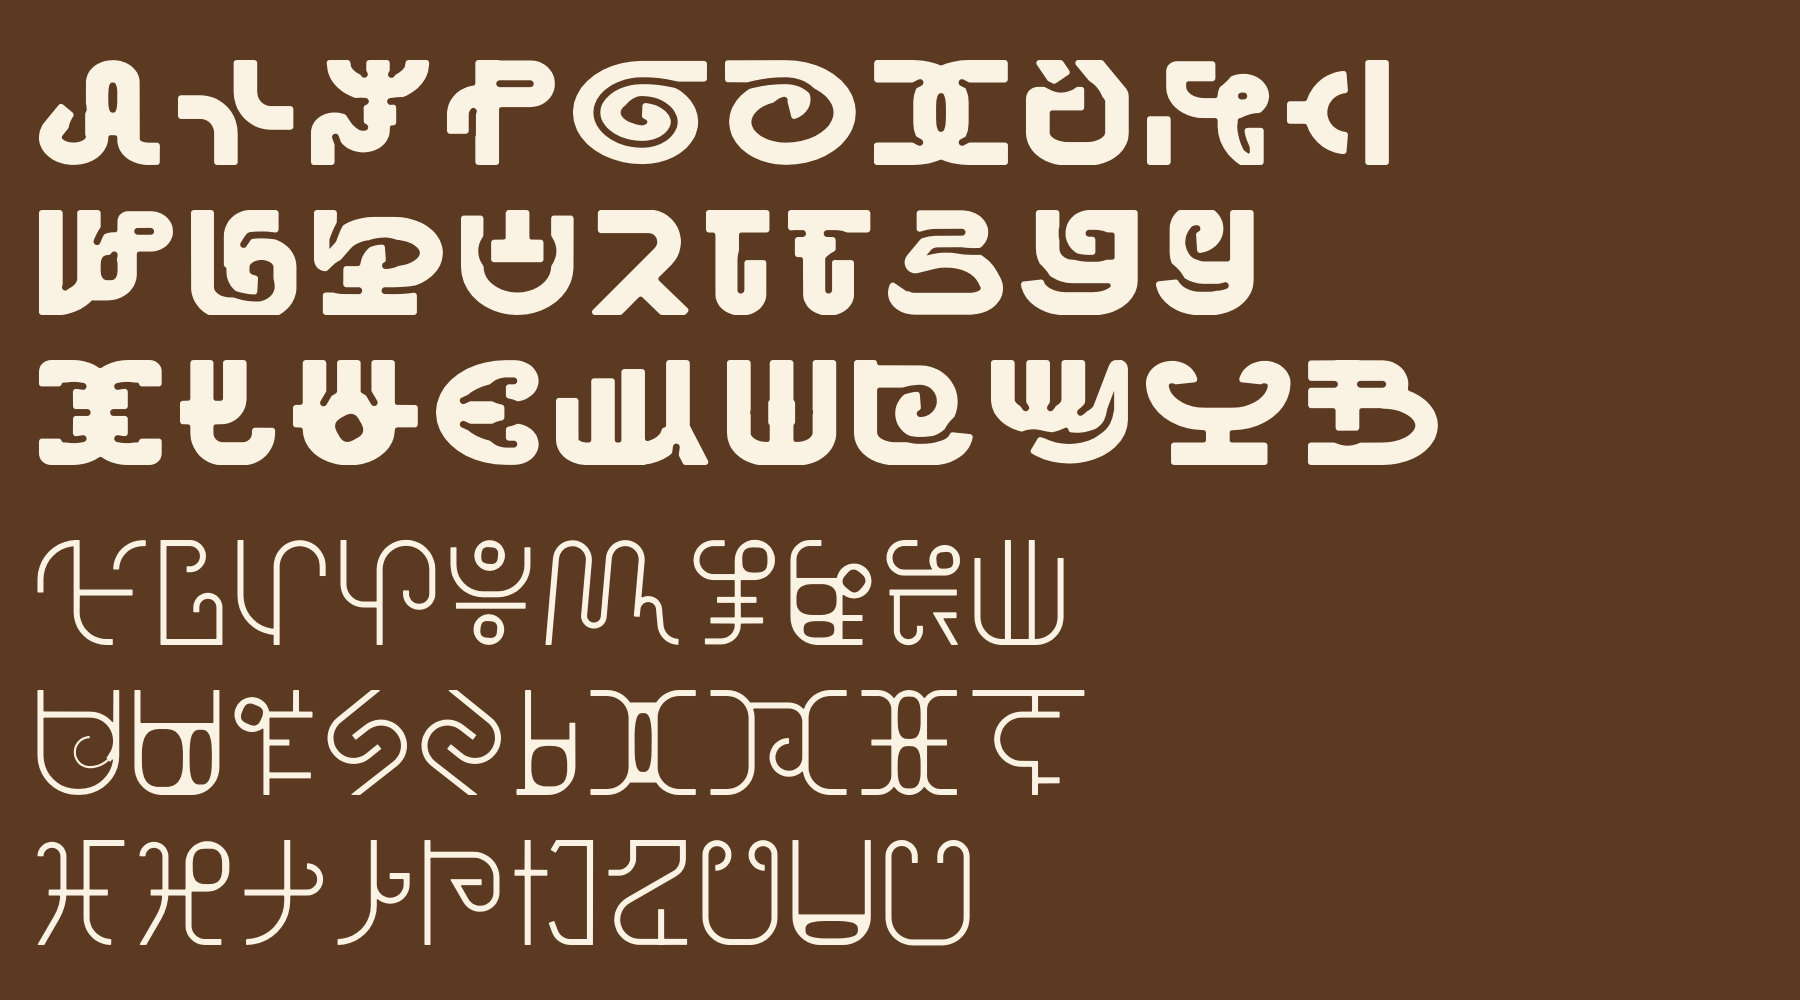
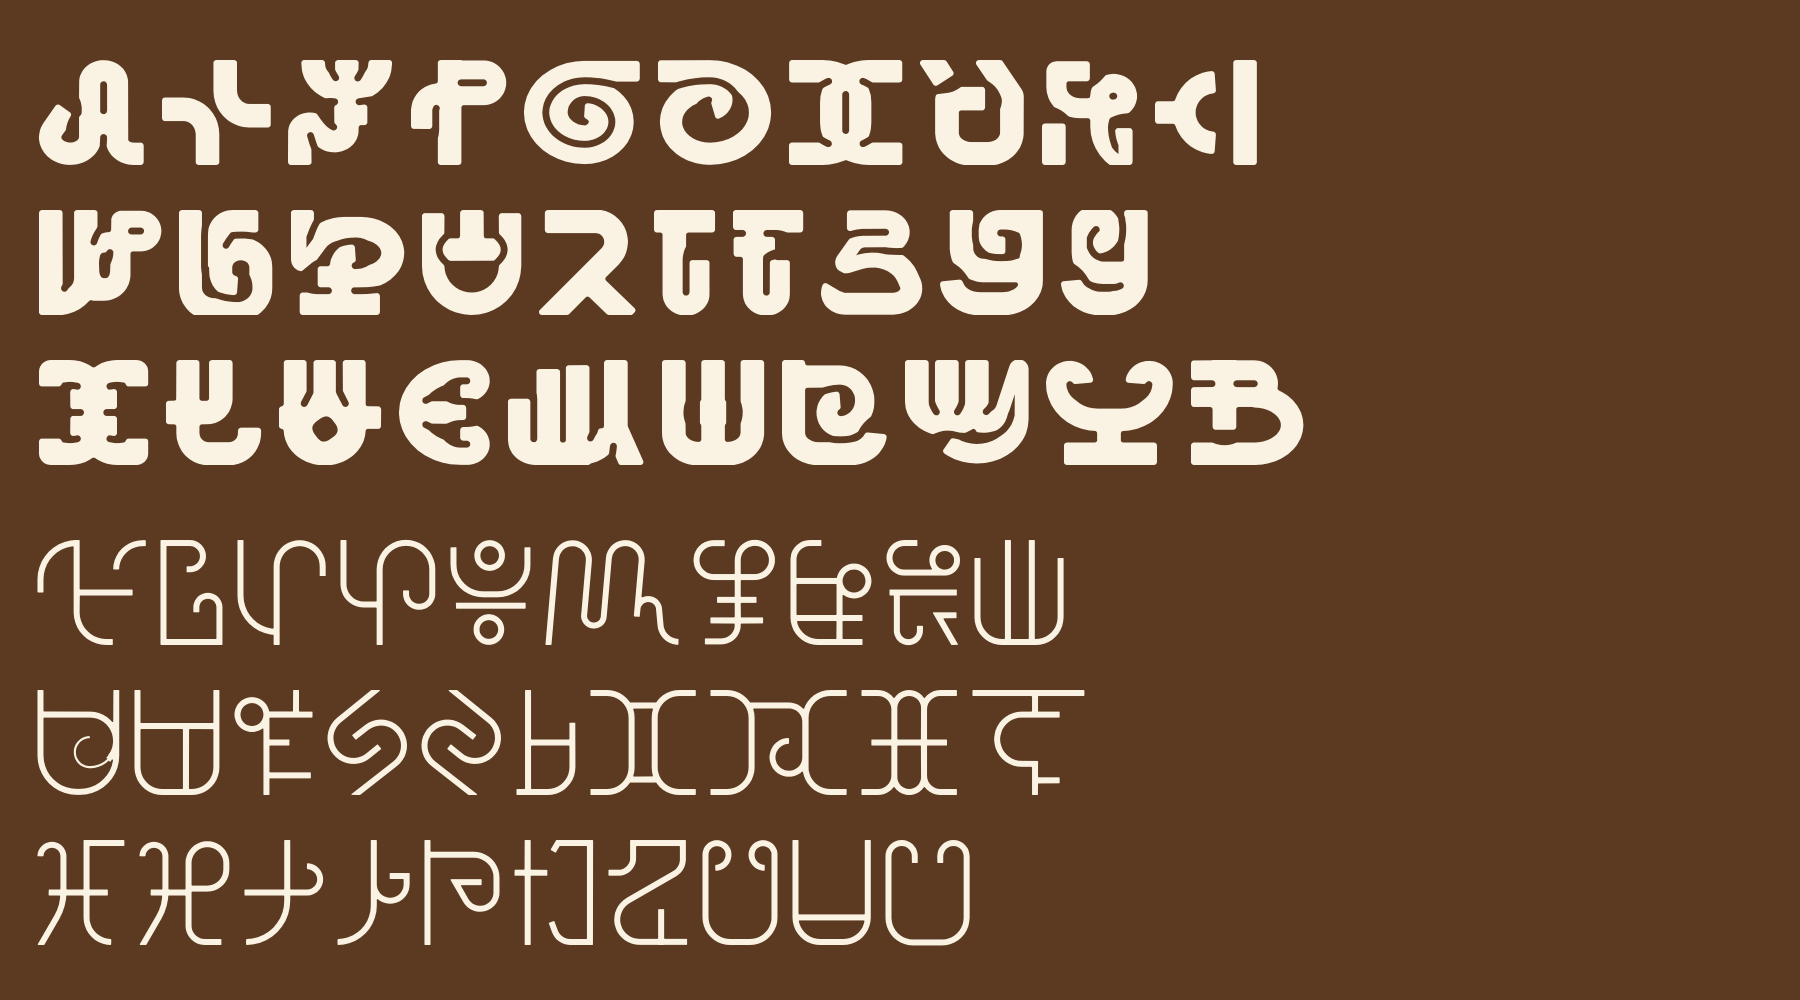
Kɔradin Eyes: less drift (tight move/stretch bounds), free ends retract instead of bites, eyes snapped to standard widths, bigger minimum eye, ku exception (rings may join, eyes kept); 63/63 pass
Claude-Session: https://claude.ai/code/session_01UantNMAVhfM7WEVtYsjyCg

diff --git a/src/eyes2/engine.py b/src/eyes2/engine.py
@@ -134,6 +134,18 @@ def fit_eye(H):
                 if best is None or sq.area > best.area: best = sq
     return best
 
+EYE_CLASSES = (0.34, 0.5, 0.72, 1.0, 1.4)     # eye widths, as shares of the weight
+def uniform(eye, W):
+    """snap a fitted eye to the standard eye widths (never wider than it fits): eyes repeat across glyphs"""
+    if eye is None: return None
+    mrr = eye.minimum_rotated_rectangle; xy = np.array(mrr.exterior.coords)[:4]
+    e1, e2 = xy[1] - xy[0], xy[2] - xy[1]; L1, L2 = np.hypot(*e1), np.hypot(*e2); v = e1 if L1 >= L2 else e2
+    ang = math.degrees(math.atan2(v[1], v[0])); A, B = max(L1, L2) / 2, min(L1, L2) / 2
+    cls = [c * W / 2 for c in EYE_CLASSES if c * W / 2 <= B + 0.5]
+    if not cls: return eye
+    b = max(cls); a = max(b, A - (B - b) * 0.6)
+    return squircle(eye.centroid.x, eye.centroid.y, a, b, ang)
+
 def kscale(W): return (700 - W) / 602
 
 def thin_eyes(lines, W, Wthin, mineye):
@@ -161,14 +173,35 @@ def thin_eyes(lines, W, Wthin, mineye):
             out.append(eye)
     return out
 
-def build(strokes, thin, W, Wthin, gap, ro, ri, eye_min=0.55, relax=False):
+def ring_merge(far, S0, thin):
+    """exception (ku): small rings may join the parts around them; only their eye must stay"""
+    tink = unary_union([Polygon(s["poly"]).buffer(0) for s in thin if len(s["poly"]) >= 3]); comps = polys(tink)
+    from shapely import contains_xy
+    lab = np.full(len(S0), -1)
+    for c, g in enumerate(comps): lab[contains_xy(g.buffer(1), S0[:, 0], S0[:, 1]) & (lab < 0)] = c
+    ring = [len(g.interiors) > 0 and g.area < 60000 for g in comps]
+    R = np.array([ring[l] if l >= 0 else False for l in lab])
+    diff = lab[:, None] != lab[None, :]
+    far.M = far.M & ~(diff & (R[:, None] | R[None, :]))
+    f0 = far
+    def f(a, b): return bool(f0.M[a, b])
+    f.M = far.M; f.touch = far.touch; return f
+
+EXCEPT = {"ku": "rings"}
+
+def build(strokes, thin, W, Wthin, gap, ro, ri, eye_min=0.55, relax=False, key=None):
     S0, S, sid = samples(thin, strokes)
-    far = separation(S0, sid, Wthin, thin); far.thin = thin
+    far = separation(S0, sid, Wthin, thin)
+    if W > Wthin and EXCEPT.get(key) == "rings": far = ring_merge(far, S0, thin)
+    far.thin = thin
     raw = unary_union([Polygon(s["poly"]).buffer(0) for s in strokes if len(s["poly"]) >= 3])
     lines_w = [s["cl"] for s in strokes]
     if relax:
         import relax as RX
-        S, raw, lines_w = RX.relax(S0, S, sid, strokes, far, W, Wthin, gap)
+        S, raw, lines_w, alive = RX.relax(S0, S, sid, strokes, far, W, Wthin, gap)
+        if not alive.all():                       # retracted ends: drop their samples, keep the index map
+            keep = np.where(alive)[0]; f0 = far
+            far = lambda a, b: f0(keep[a], keep[b]); S = S[keep]
     ink = raw.buffer(ri, quad_segs=8).buffer(-ri, quad_segs=8) if ri > 0.5 else raw
     lines = [l for l in cut_lines(S, far, W / 2 + gap / 2)]
     cut = None
@@ -184,12 +217,12 @@ def build(strokes, thin, W, Wthin, gap, ro, ri, eye_min=0.55, relax=False):
         for r in p.interiors:
             H = Polygon(r)
             island = any(H.contains(q.representative_point()) for q in polys(A) if q is not p)
-            eye = None if island or H.area < (0.25 * W) ** 2 else fit_eye(H)
+            eye = None if island or H.area < (0.25 * W) ** 2 else uniform(fit_eye(H), W)
             if eye is not None and eye.area >= eye_min * H.area: holes.append(eye); eyes.append(eye)
             else: holes.append(H)
         out.append(Polygon(p.exterior).difference(unary_union(holes)) if holes else Polygon(p.exterior))
     A = unary_union(out)
-    for e in thin_eyes(lines_w, W, Wthin, max(30, 0.32 * W)):
+    for e in thin_eyes(lines_w, W, Wthin, max(30, 0.42 * W)):
         if not any(h.intersects(e.centroid) for p in polys(A) for h in [Polygon(r) for r in p.interiors]):
             A = A.difference(e)
     if cut is not None: A = A.difference(cut)
@@ -227,7 +260,7 @@ def run(path, out):
         P = PRESETS.get(W) or dict(gap=0.3 * W, ro=0.13 * W, ri=0.07 * W)
         res[W] = {}
         for k in D["keys"]:
-            g, _ = build(D["G"][k][str(W)], D["G"][k][str(Wt)], float(W), float(Wt), **P)
+            g, _ = build(D["G"][k][str(W)], D["G"][k][str(Wt)], float(W), float(Wt), key=k, **P)
             res[W][k] = [[np.round(np.array(p.exterior.coords), 1).tolist()] + [np.round(np.array(r.coords), 1).tolist() for r in p.interiors] for p in polys(g)]
     json.dump(res, open(out, "w"))
 

diff --git a/src/eyes2/relax.py b/src/eyes2/relax.py
@@ -25,6 +25,7 @@ def relax(S0, S, sid, strokes, far, W, Wthin, gap, iters=None):
         if hasB[i] and not hasT[i]: C[i, 1] = P0[sid == i][:, 1].min()
         elif hasT[i] and not hasB[i]: C[i, 1] = P0[sid == i][:, 1].max()
     T = far.touch.tocoo(); J = np.array([(i, j) for i, j in zip(T.row, T.col) if sid[i] != sid[j]], int).reshape(-1, 2)
+    Jself = set(int(i) for i, j in zip(T.row, T.col) if sid[i] == sid[j] and abs(i - j) > 3) | set(int(j) for i, j in zip(T.row, T.col) if sid[i] == sid[j] and abs(i - j) > 3)
     RJ = P0[J[:, 1]] - P0[J[:, 0]] if len(J) else np.zeros((0, 2))
     need_all = hw[:, None] + hw[None, :] + gap
     pr = cKDTree(P0).query_pairs(float(need_all.max()) * 1.6, output_type="ndarray")
@@ -59,11 +60,11 @@ def relax(S0, S, sid, strokes, far, W, Wthin, gap, iters=None):
             c = Q[idx].mean(axis=0); r.append(4.0 * np.maximum(0, Rneed - np.hypot(*(Q[idx] - c).T)) / W)
         r.append(10.0 * (Q[pin, 1] - P0[pin, 1]) / W)
         r.append(10.0 * (np.maximum(0, 0.45 * W - Q[:, 1]) + np.maximum(0, Q[:, 1] - (700 - 0.45 * W))) / W)   # stay in the body
-        r.append(np.r_[1.2 * X[:, 0] / W, 2.0 * X[:, 1] / W, (X[:, 2] - 1) * 2, (X[:, 3] - 1) * 2, (X[:, 2] - X[:, 3]) * 4, [(x[-1] - 1) * 3]])
+        r.append(np.r_[2.5 * X[:, 0] / W, 3.0 * X[:, 1] / W, (X[:, 2] - 1) * 4, (X[:, 3] - 1) * 4, (X[:, 2] - X[:, 3]) * 4, [(x[-1] - 1) * 5]])
         if len(CP): r.append(1.5 * (X[CP[:, 0], 0] - X[CP[:, 1], 0]) / W)
         return np.concatenate(r)
     x0 = np.r_[np.tile([0, 0, 1, 1], ns).astype(float), 1.0]
-    lo = np.r_[np.tile([-160, -60, 0.9, 0.85], ns), 0.95]; hi = np.r_[np.tile([120, 60, 1.3, 1.3], ns), 1.1]
+    lo = np.r_[np.tile([-70, -40, 0.95, 0.9], ns), 0.98]; hi = np.r_[np.tile([70, 40, 1.15, 1.2], ns), 1.06]   # little drift
     e = 1e-6
     for i in range(ns):
         if hasB[i] or hasT[i]: lo[4 * i + 1], hi[4 * i + 1] = -e, e            # no vertical shift
@@ -71,10 +72,25 @@ def relax(S0, S, sid, strokes, far, W, Wthin, gap, iters=None):
     x0 = np.clip(x0, lo, hi)
     sol = least_squares(res, x0, bounds=(lo, hi), x_scale=np.r_[np.tile([W, W, 1, 1], ns), 1], max_nfev=300)
     P = place(sol.x)
+    # retract free ends that still crowd a separate part (shorter strokes instead of bites)
+    alive = np.ones(n, bool); tree = cKDTree(P); Jset = set(J.ravel().tolist()) | Jself
+    for i in range(ns):
+        idx = np.where(sid == i)[0]
+        if len(idx) < 4 or np.hypot(*(P0[idx[0]] - P0[idx[-1]])) < 2 * hw[idx[0]]: continue   # closed strokes (rings) have no ends
+        L = np.r_[0, np.cumsum(np.hypot(*np.diff(P[idx], axis=0).T))]
+        for end in (0, 1):
+            order = idx if end == 0 else idx[::-1]; Lo = L if end == 0 else L[-1] - L[::-1]
+            if _cut_end(strokes[i], 0 if end == 0 else -1): continue
+            if any(j in Jset for j, l in zip(order, Lo) if l < 0.6 * W): continue     # a junction end: keep
+            k = 0
+            while k < len(order) - 1 and Lo[k] < 0.9 * W and (L[-1] - Lo[k]) > 1.4 * W:
+                e = order[k]; nb = tree.query_ball_point(P[e], hw[e] + hw.max() + gap)
+                if not any(alive[j] and far.M[e, j] and np.hypot(*(P[j] - P[e])) < hw[e] + hw[j] + gap for j in nb): break
+                alive[e] = False; k += 1
     # rebuild the heavy strokes around the relaxed centrelines
     lines, polys = [], []
     for i in range(len(strokes)):
-        Q = P[sid == i]
+        Q = P[(sid == i) & alive]
         if len(Q) < 2: continue
         Q = Q.copy()
         for end, nb in ((0, 1), (-1, -2)):            # ends on the body lines: run past, cut flat by the clip
@@ -84,7 +100,7 @@ def relax(S0, S, sid, strokes, far, W, Wthin, gap, iters=None):
         lines.append(Q.tolist())
         polys.append(LineString(Q).buffer(hw_s[i], cap_style=2, join_style=1, quad_segs=8))
     raw = unary_union(polys).intersection(box(-2000, 0, 3000, 700))
-    return P, raw, lines
+    return P, raw, lines, alive
 
 def _cut_end(st, end):
     """the original stroke was cut flat on a body line at this end (its polygon reaches 0 or 700 there)"""

diff --git a/src/eyes2/verify.py b/src/eyes2/verify.py
@@ -17,14 +17,14 @@ def comp_labels(geom, pts, tol):
 
 def check(k, D, W="150", P=None):
     thin = D["G"][k]["40"]; heavy = D["G"][k][W]
-    g, dbg = engine.build(heavy, thin, float(W), 40., **(P or engine.PRESETS[int(W)]))
+    g, dbg = engine.build(heavy, thin, float(W), 40., key=k, **(P or engine.PRESETS[int(W)]))
     S0, _, sid = engine.samples(thin, thin)
     tink = unary_union([Polygon(s["poly"]).buffer(0) for s in thin])
     lt, Gt = comp_labels(tink, S0, 25); lh, Gh = comp_labels(g, dbg["S"], 90)
     issues = []
     for c in set(lh) - {-1}:
         ts = set(lt[lh == c]) - {-1}
-        if len(ts) > 1: issues.append(f"merge {sorted(ts)}")
+        if len(ts) > 1 and engine.EXCEPT.get(k) != "rings": issues.append(f"merge {sorted(ts)}")
     for c in set(lt) - {-1}:
         hs = set(lh[lt == c]) - {-1}
         if len(hs) > 1: issues.append(f"break t{c}->{len(hs)}")

diff --git a/src/eyes2/dbg.py b/src/eyes2/dbg.py
@@ -2,7 +2,7 @@ import json, sys, engine
 from PIL import Image, ImageDraw
 D = json.load(open("/tmp/claude-0/rad2.json")); k = sys.argv[1]; W = sys.argv[2] if len(sys.argv) > 2 else "150"
 P = engine.PRESETS[int(W)]
-g, dbg = engine.build(D["G"][k][W], D["G"][k]["40"], float(W), 40., **P)
+g, dbg = engine.build(D["G"][k][W], D["G"][k]["40"], float(W), 40., key=k, **P)
 im = Image.new("RGB", (900, 900), (255, 255, 255)); d = ImageDraw.Draw(im); s = 0.95
 tf = lambda x, y: (100 + x * s, 830 - y * s)
 for p in engine.polys(dbg["raw"]): d.polygon([tf(*q) for q in p.exterior.coords], fill=(230, 200, 170))
